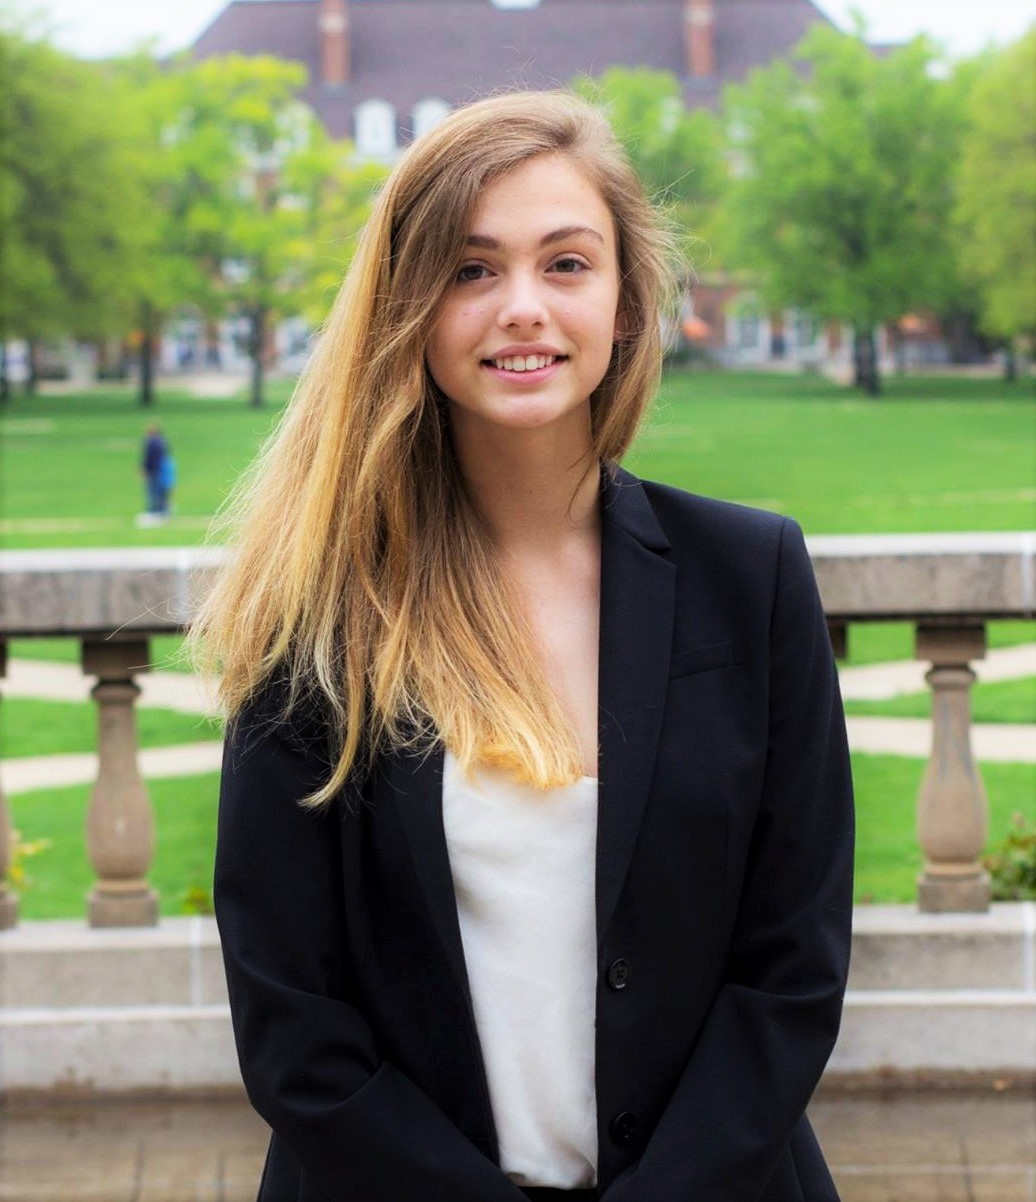
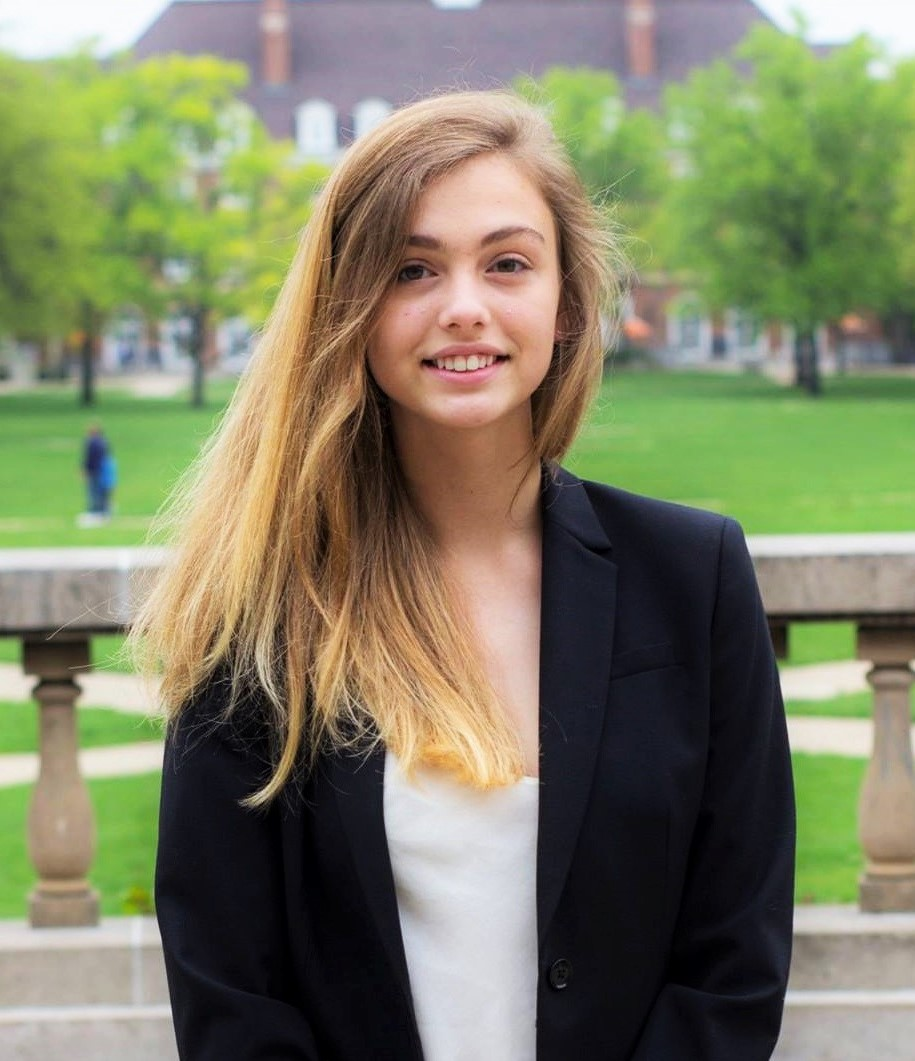
fixed exec-board, at least up to what is currently available

diff --git a/about/exec-board/index.html b/about/exec-board/index.html
@@ -104,12 +104,12 @@
       </div>
 
       <div class="pure-u-1 pure-u-md-1-3 center-align">
-        <img class="headshot pure-img" src="alma.jpg"></img>
+        <img class="headshot pure-img" src="alanren.png"></img>
         <h3>Alan Ren</h3>
         <h4><a href="/about/committees/index.html#technical-events">Technical Events</a> Director</h4>
         <a href="mailto:ieee-technical-events@illinois.edu">ieee-technical-events@illinois.edu</a>
         <!--TODO-->
-        <p>Alan is a senior studying Computer Engineering. He's from Naperville Illinois and he enjoys playing the drums.</p>
+        <p>Alan is a sophomore majoring in Computer Engineering, originally from Naperville, IL. Outside of the classroom, he enjoys playing tennis and soccer as well as dancing. He hopes that after graduation he can travel the world and do meaningful work at a tech company that advances the human condition.</p>
       </div>
 
       <div class="pure-u-1 pure-u-md-1-3 center-align">
@@ -161,21 +161,21 @@
     <div class="pure-g">
 
       <div class="pure-u-1 pure-u-md-1-2 center-align">
-        <img class="headshot pure-img" src="alma.jpg"></img>
+        <img class="headshot pure-img" src="karunkoppula.jpg"></img>
         <h3>Karun Koppula</h3>
         <!--TODO-->
         <h4><a href="/about/committees/index.html#social">Social</a> Director</h4>
         <a href="mailto:ieee-social@illinois.edu">ieee-social@illinois.edu</a>
-        <p>Karun is a senior in Electrical Engineering. His interests are playing Ultimate Frisbee and Jazz music. His favorite movie from 2016 is La La Land due to the instrumental soundtrack. </p>
+        <p>Karun is a senior in Electrical Engineering with a focus on robotics and controls. He is currently working on manipulating aerial robots and has been working with UAVs for some time. He plays Ultimate with the UIUC club team and has recently taken up baking. Karun is always excited to meet new people and discover new experiences, be it eating, physical, mental, or eating. He is looking forward to putting together many new events to bring the engineering community together and connect people.</p>
       </div>
 
       <div class="pure-u-1 pure-u-md-1-2 center-align">
-        <img class="headshot pure-img" src="alma.jpg"></img>
+        <img class="headshot pure-img" src="premikapandian.png"></img>
         <h3>Premika Pandian</h3>
         <!--TODO-->
         <h4>Publicity Director</h4>
         <a href="mailto:ieee-publicity@illinois.edu">ieee-publicity@illinois.edu</a>
-        <p>Premika is a senior studying Computer Engineering. Her technical interests include 3D printing and she is part of a startup company. Her non-technical pursuits involve geo-cache location. </p>
+        <p>Premika is a senior studying Computer Engineering. She is passionate about using technology to drive positive social change. She was involved in a startup focused on reducing the gender gap through 3D printing lessons for young girls, and is now focusing on her own startup, which aims to increase transparency and accountability in the criminal justice system. In her free time, she loves hiking, reading, and finding new places to eat</p>
       </div>
 
     </div>
